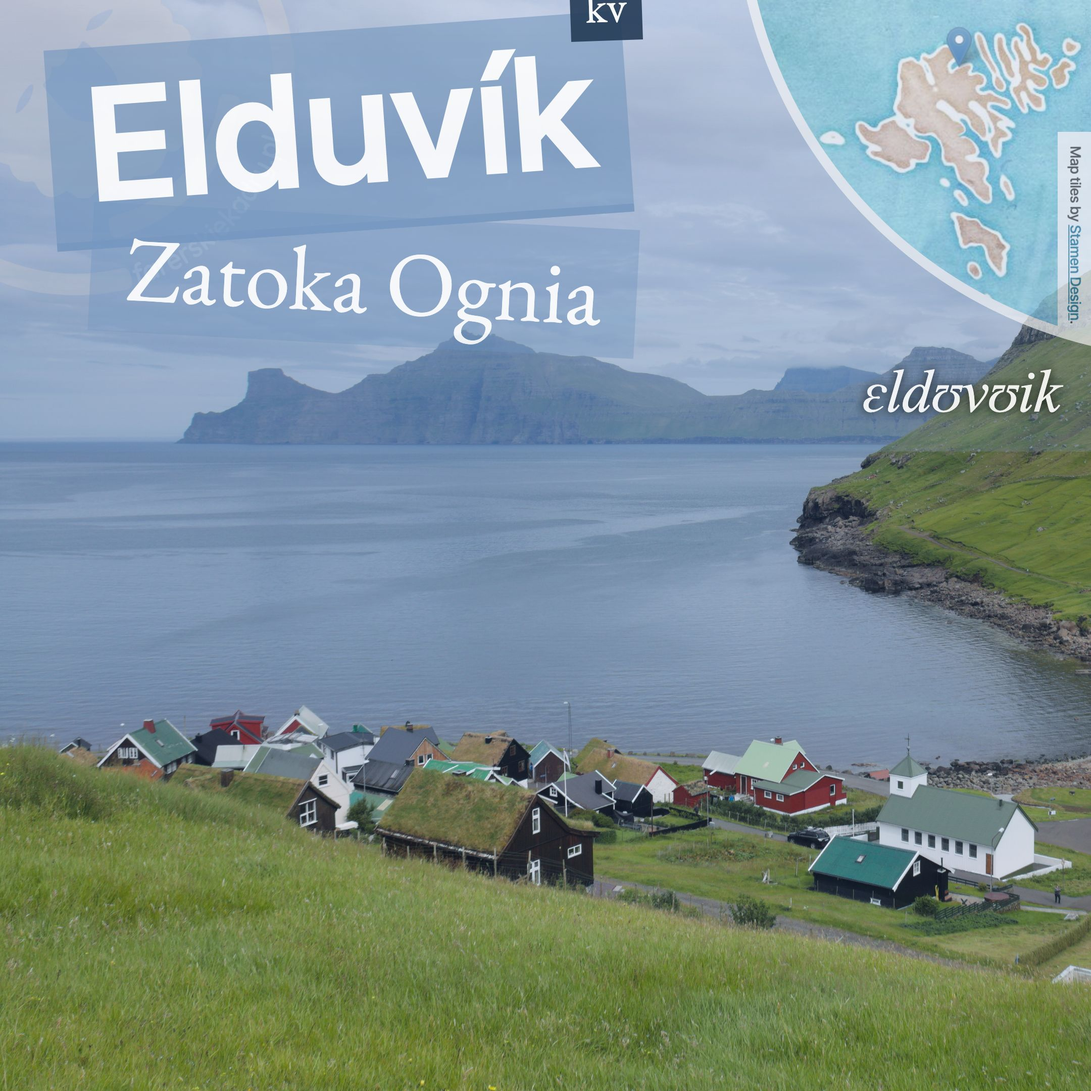
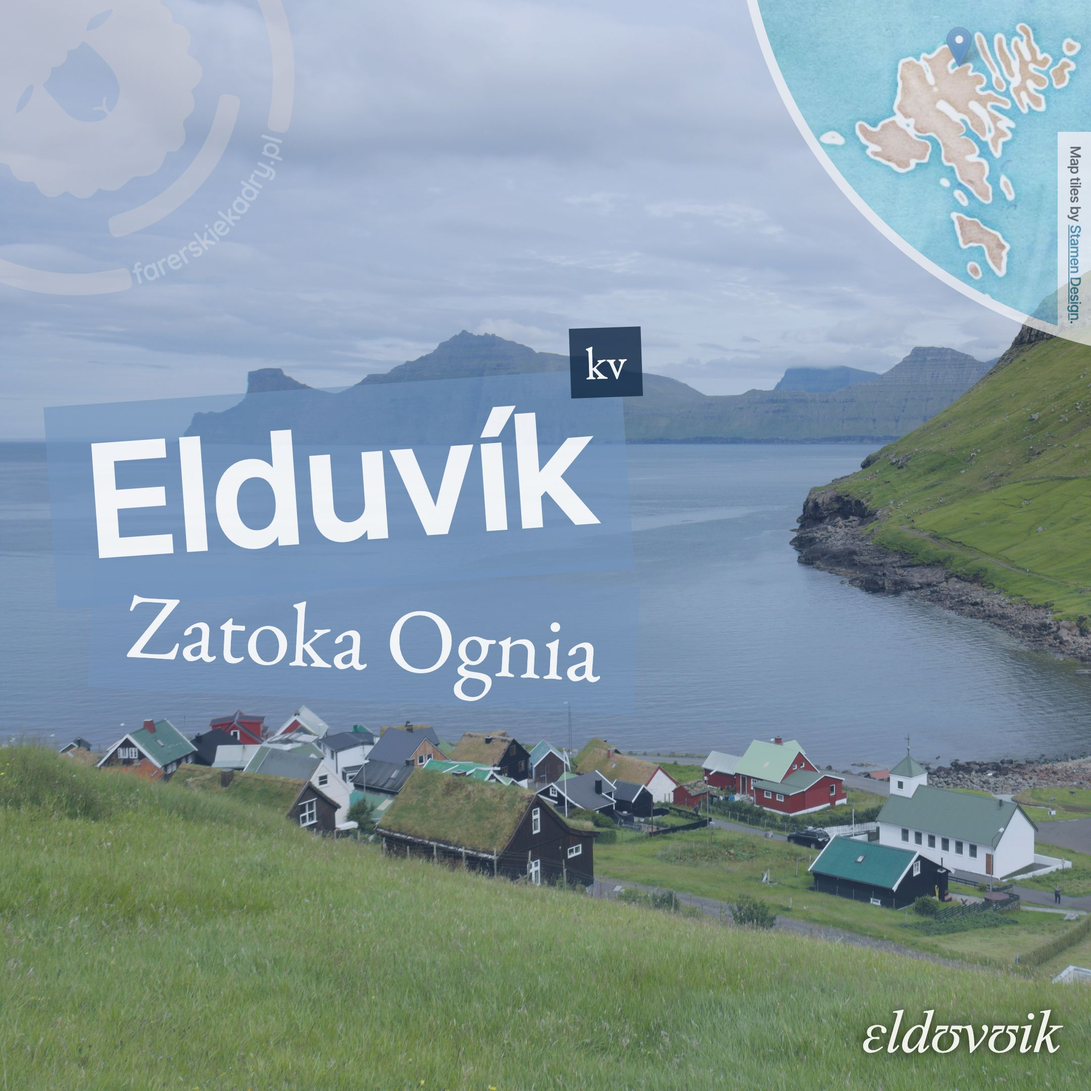
Instagram improvements

diff --git a/index.html b/index.html
@@ -103,7 +103,7 @@
 	} */
 
 	#logo {
-		filter: invert(1) grayscale(1) opacity(0.25);
+		filter: invert(1) grayscale(1) opacity(0.4);
 		width: 500px;
 		position: absolute;
 		right: -150px;
@@ -265,6 +265,15 @@ At a standard width of 1080 pixels, Instagram keeps your photo its original size
 
 	body.instagram *[lang="pl"] {
 		display: block;
+	}
+
+	body.instagram dl {
+		padding-bottom: 400px;
+	}
+
+	body.instagram .ipa {
+		bottom: calc(-235px - 280px);
+		right: 120px;
 	}
   </style>
 
